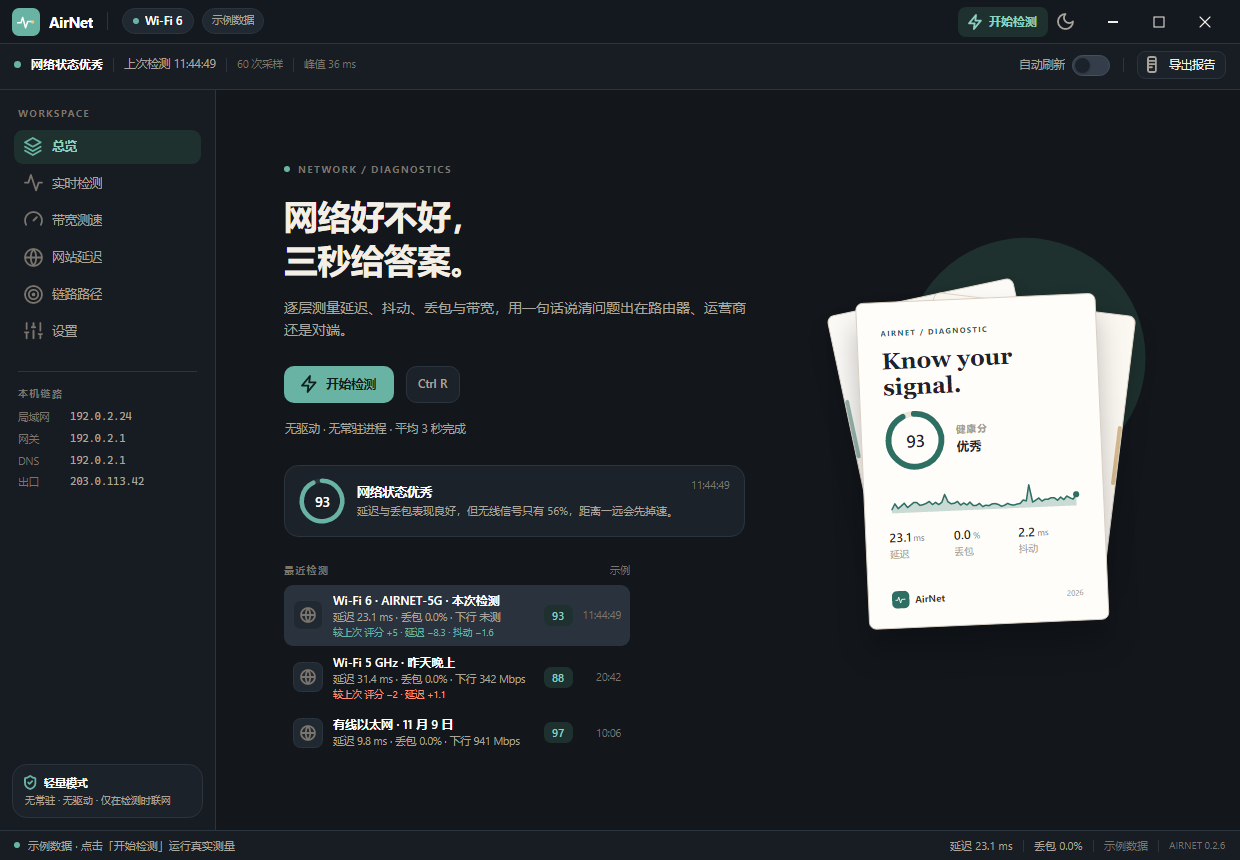
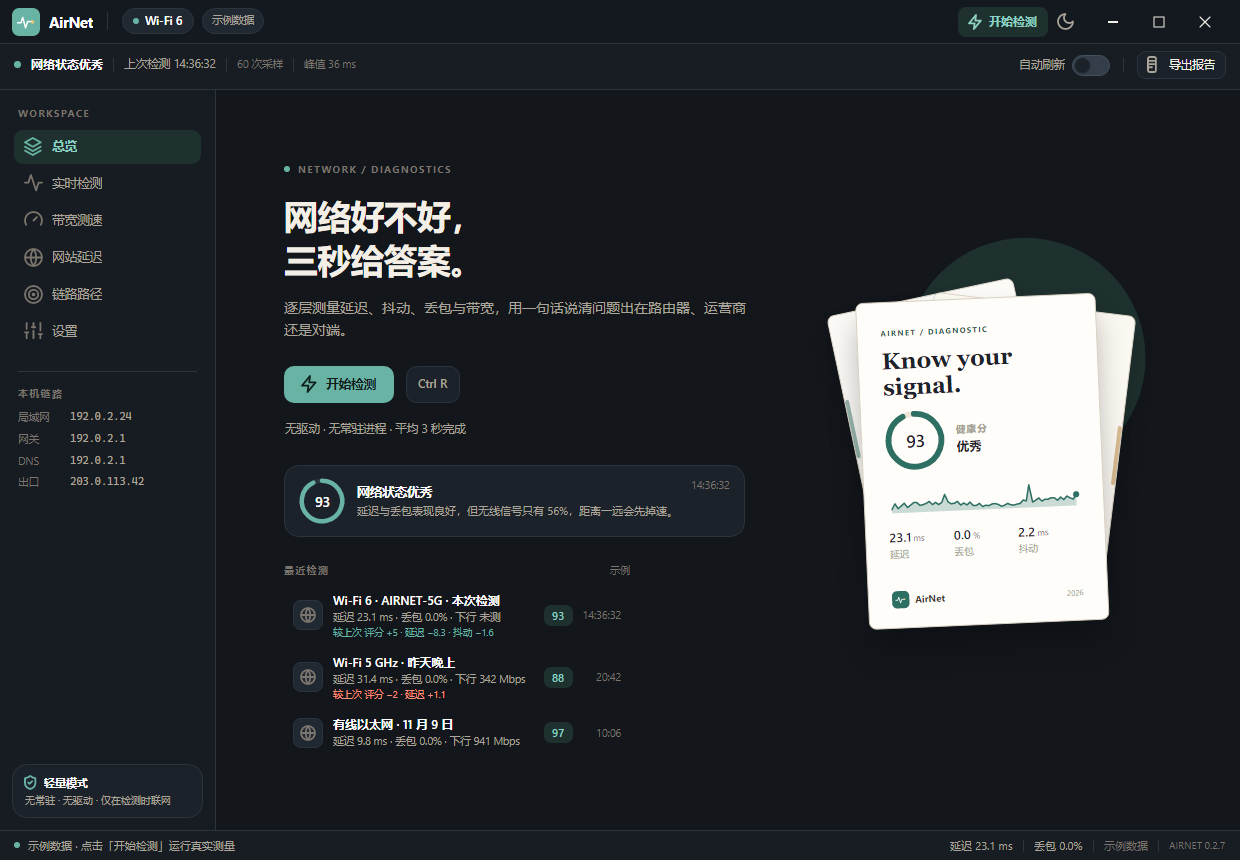
release: prepare 0.2.7
Bump version/footer to 0.2.7, refresh all screenshots, remove AirPDF references from the README, and add the all-platform AOT release notes. No tag or Release is created.

Changed region(s): [[0.2145, 0.6651, 0.521, 0.7558], [0.5516, 0.5442, 0.5823, 0.5744], [0.1532, 0.0605, 0.1839, 0.0907]]

diff --git a/src/AirNet.App/ViewModels/SettingsViewModel.cs b/src/AirNet.App/ViewModels/SettingsViewModel.cs
@@ -74,7 +74,7 @@ public partial class SettingsViewModel : ObservableObject
 
     public bool HasNeighborRows => NeighborRows.Count > 0;
 
-    public string VersionText => "0.2.6 · M3";
+    public string VersionText => "0.2.7 · M3";
     public string RuntimeText => ".NET 10 · Avalonia 11.3 · Windows / macOS / Linux";
     public string FootprintText => "R2R 单文件 · 无驱动 · 无后台常驻";
     public string PrivacyText =>

diff --git a/README.md b/README.md
@@ -2,7 +2,7 @@
 
 **轻量、快速的网络检测与优化工具** —— 点一下，三秒告诉你网络好不好、问题在路由器还是运营商。
 
-基于 .NET 10 + Avalonia 11.3，沿用 AirPDF 的"纸张"设计语言；Windows/macOS/Linux 正式包均使用 Native AOT。
+基于 .NET 10 + Avalonia 11.3 的轻量网络诊断工具；Windows/macOS/Linux 正式包均使用 Native AOT。
 
 [![CI](https://github.com/RyzenWang/AirNet/actions/workflows/ci.yml/badge.svg)](https://github.com/RyzenWang/AirNet/actions/workflows/ci.yml)
 [![Release](https://img.shields.io/github/v/release/RyzenWang/AirNet?display_name=tag)](https://github.com/RyzenWang/AirNet/releases/latest)
@@ -95,7 +95,7 @@ powershell -File packaging/pack-all.ps1                          # Windows AOT +
 | macOS Apple Silicon / Intel | `AirNet-<version>-macos-arm64-aot.zip` / `-macos-x64-aot.zip`，解压得到 `AirNet.app` |
 | Linux x64 / arm64 | `AirNet-<version>-linux-x64-aot.zip` / `-linux-arm64-aot.zip`（以及同名 `.tar.gz`）；直接 `bash run.sh` |
 
-> 当前最新 Release `v0.2.6` 仍是 R2R；下一次 tag 起 Windows/macOS/Linux 全部改走 AOT。
+> 当前最新 Release 仍是 `v0.2.6`；`v0.2.7` 起 Windows/macOS/Linux 全部改走 AOT。
 
 
 Linux x64 已在真实 Linux 环境启动验证；需要 X11 或 Wayland（XWayland）及常见桌面库。macOS 包未签名/未公证，暂未在真机验证；Linux arm64 也待验证。CI 在 tag 上会把全部便携 zip/tar.gz 挂到对应 Release，不构建 setup。
@@ -149,8 +149,8 @@ docs/
 
 ## 设计要点
 
-- **同一张纸，同一支橙笔**：沿用 AirPDF 的暖白纸面色板（`#F1EEE7` / `#FBFAF7` / `#DED7CB`）与字号阶梯；
-  浅色主操作、品牌和导航选中用暖橙 `#E3563B`；健康分、图表和状态灯继续用青绿语义色。
+- **暖白纸面，暖橙操作层**：应用底色 `#F1EEE7`，卡片 `#FBFAF7`，描边 `#DED7CB`；
+  浅色主操作、品牌和导航选中用暖橙 `#E3563B`，健康分、图表和状态灯继续用青绿语义色。
   深色主题保持原来的青绿 accent，不改色。
 - **数字有口径**：每个指标都带单位、P95、采样数或满量程，不给出无法解释的分数。
 - **结构可读**：44px 品牌条 + 46px 状态条 + 216px 侧栏 + 30px 状态栏，六页共用，不做导航栈重建。

diff --git a/docs/release/v0.2.7.md b/docs/release/v0.2.7.md
@@ -1,0 +1,49 @@
+## AirNet 0.2.7
+
+全平台 Native AOT 正式发布。**仅提供便携包，不提供 setup/安装器。**
+
+### 发布方式
+
+Windows / macOS / Linux 全部改为 Native AOT，由 GitHub Actions 原生 runner 矩阵构建：
+
+| 平台 | 资产 | 构建方式 |
+| --- | --- | --- |
+| Windows x64 | `AirNet-0.2.7-win-x64-aot.zip` | Native AOT |
+| macOS arm64 | `AirNet-0.2.7-macos-arm64-aot.zip` | Native AOT |
+| macOS x64 | `AirNet-0.2.7-macos-x64-aot.zip` | Native AOT |
+| Linux x64 | `AirNet-0.2.7-linux-x64-aot.zip` / `.tar.gz` | Native AOT |
+| Linux arm64 | `AirNet-0.2.7-linux-arm64-aot.zip` / `.tar.gz` | Native AOT |
+
+AOT 包不是单文件：Windows 需保留同目录的 Skia / ANGLE / HarfBuzz DLL；
+macOS 是 `AirNet.app`；Linux 解压后执行 `bash run.sh`。PDB / `.dbg` 已在打包时剥离。
+
+### 修复
+
+- 启动样例不再伪造带宽（此前固定 384.2 / 92.6 Mbps）。未测速时，仪表盘、测速页、
+  报告和历史统一显示“未测速”，只有真正测速后才出现带宽数字。
+
+### 验证
+
+- Windows Release 构建：0 warning / 0 error。
+- 单元测试：**137 passed**。
+- Windows AOT：GUI、`--probe --json`、`--selftest`、`--export` 均验证通过；
+  本机约 411 ms 启动 / 118.9 MB 内存。
+- 五平台 AOT CI 构建矩阵：全部成功；Linux/macOS 的 GUI/CLI 运行仍待真机验收。
+- 当前 AOT 压缩包参考大小：Windows 约 16.8 MB，Linux 约 15–17 MB，
+  macOS 约 27–29 MB。
+
+### 使用
+
+**Windows**：解压后双击 `AirNet.exe`，保留同目录原生 DLL。
+
+**macOS**：解压得到 `AirNet.app`，拖到应用程序目录；未签名/未公证，首次打开需右键 → 打开。
+
+**Linux**：
+
+```bash
+tar -xzf AirNet-0.2.7-linux-x64-aot.tar.gz   # 或 unzip ...
+cd AirNet
+bash run.sh
+```
+
+需要 X11 或 Wayland（XWayland）及常见桌面库。

diff --git a/CHANGELOG.md b/CHANGELOG.md
@@ -3,13 +3,14 @@
 All notable changes are documented here. The format follows Keep a Changelog and the
 project uses semantic versioning for release tags.
 
-## [Unreleased]
+## [0.2.7] - 2026-11-13
 
 ### Changed
 
 - Windows, macOS and Linux release builds now use Native AOT through a native-runner
   matrix (`win-x64`, `linux-x64`, `linux-arm64`, `osx-x64`, `osx-arm64`). Assets carry
   an `-aot` suffix. The R2R single-file build remains available as a local fallback.
+- Version and footer now report 0.2.7.
 
 ### Fixed
 
